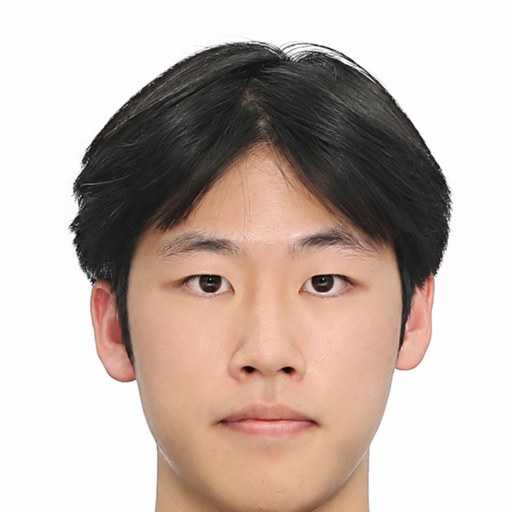
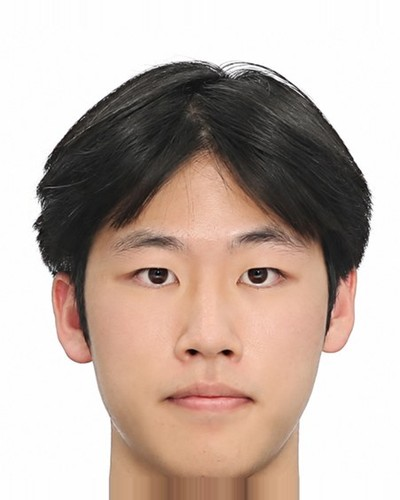
style: show portraits as 4:5 rectangles instead of circles
The circular mask cut the corners of every frame, which took the top of
people's hair with it. Portraits are now 4:5 rectangles with the site's
usual corner radius, and the photos have been re-framed to match: the
crown of the head sits 12% down the frame and the face is centred, so
every portrait carries the same headroom and the same head scale. Where
a photo ran out of room above the hair its edge pixels are stretched
outward, which is invisible against these plain backdrops.

Sources are the full-resolution originals recovered from git where they
exist. Output is 400x500 JPEG, 21-31 KB each.

Claude-Session: https://claude.ai/code/session_017aka97EFjt9WxhM8UJy2bJ

diff --git a/_styles/portrait.scss b/_styles/portrait.scss
@@ -40,7 +40,7 @@
   border-radius: 999px;
   background: var(--background);
   box-shadow: var(--shadow);
-  transform: translate(14%, 14%);
+  transform: translate(8%, 8%);
 }
 
 .portrait[data-style="small"] .icon {
@@ -55,8 +55,8 @@
 .portrait-image {
   width: 100%;
   margin-bottom: 20px;
-  aspect-ratio: 1 / 1;
-  border-radius: 999px;
+  aspect-ratio: 4 / 5;
+  border-radius: var(--rounded);
   object-fit: cover;
   box-shadow: var(--shadow);
 }
@@ -64,6 +64,8 @@
 .portrait[data-style="tiny"] .portrait-image {
   width: 50px;
   margin: 0;
+  aspect-ratio: 1 / 1;
+  border-radius: 999px;
 }
 
 .portrait-name {
